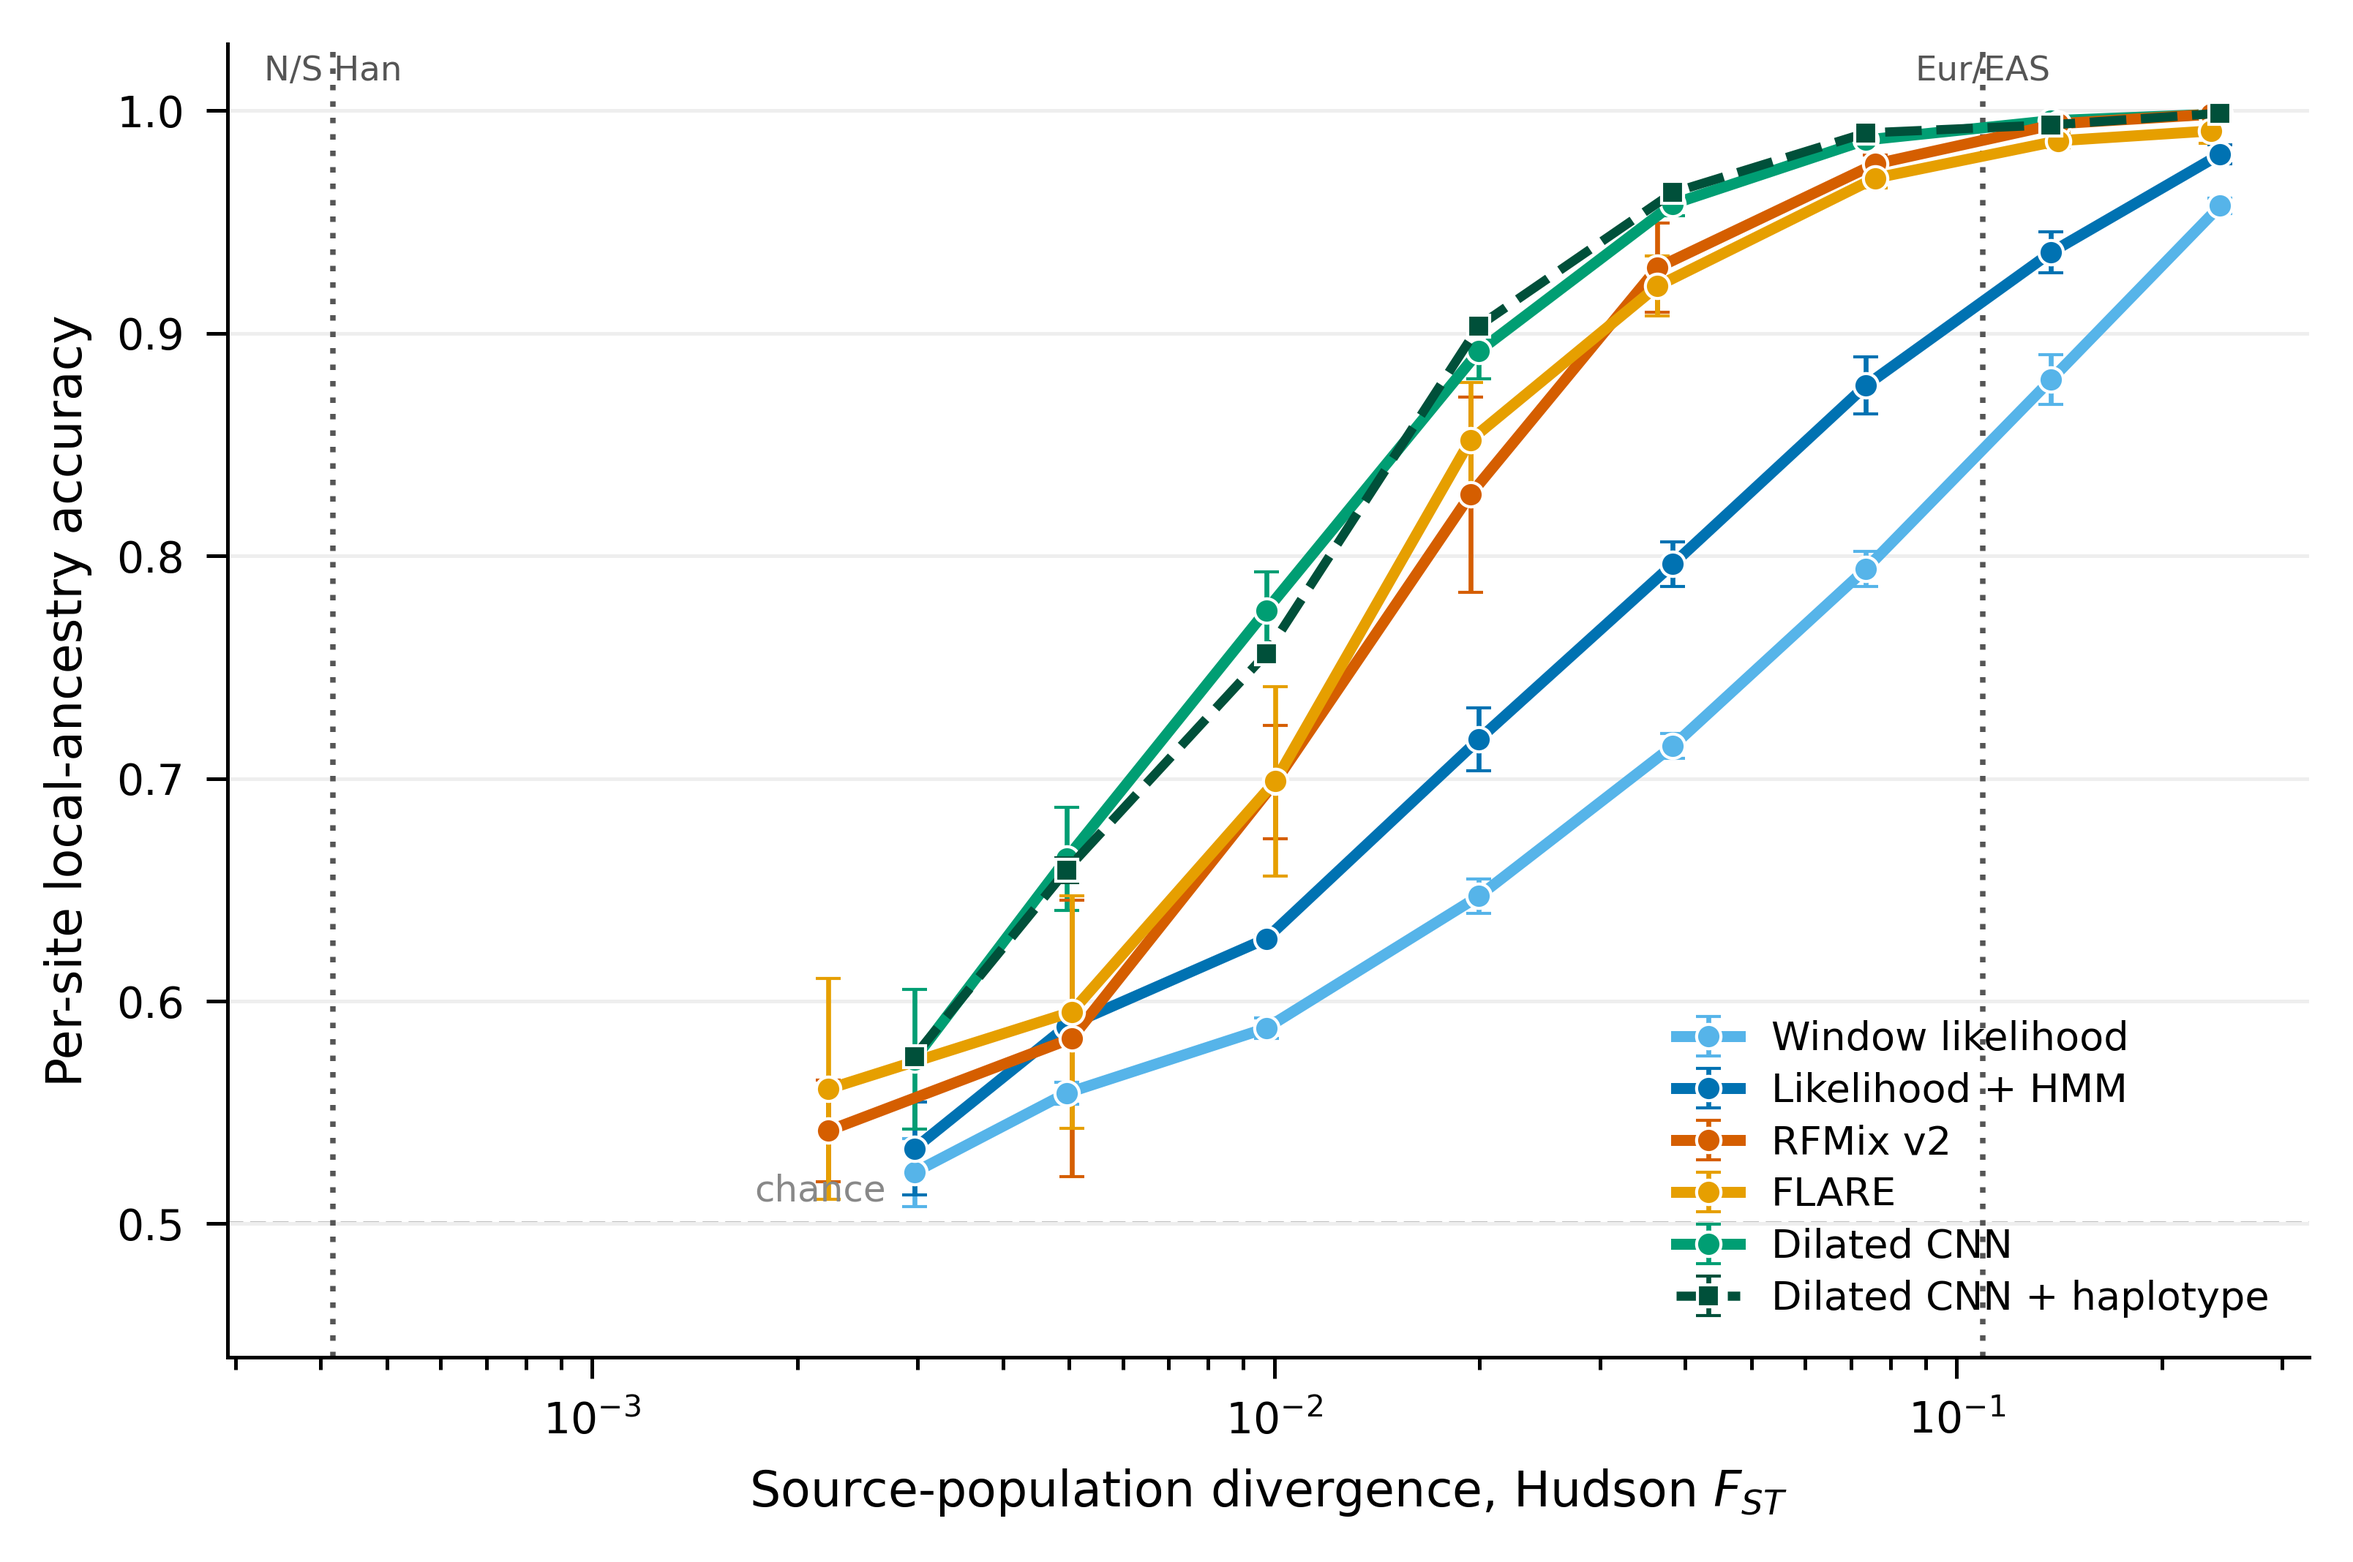
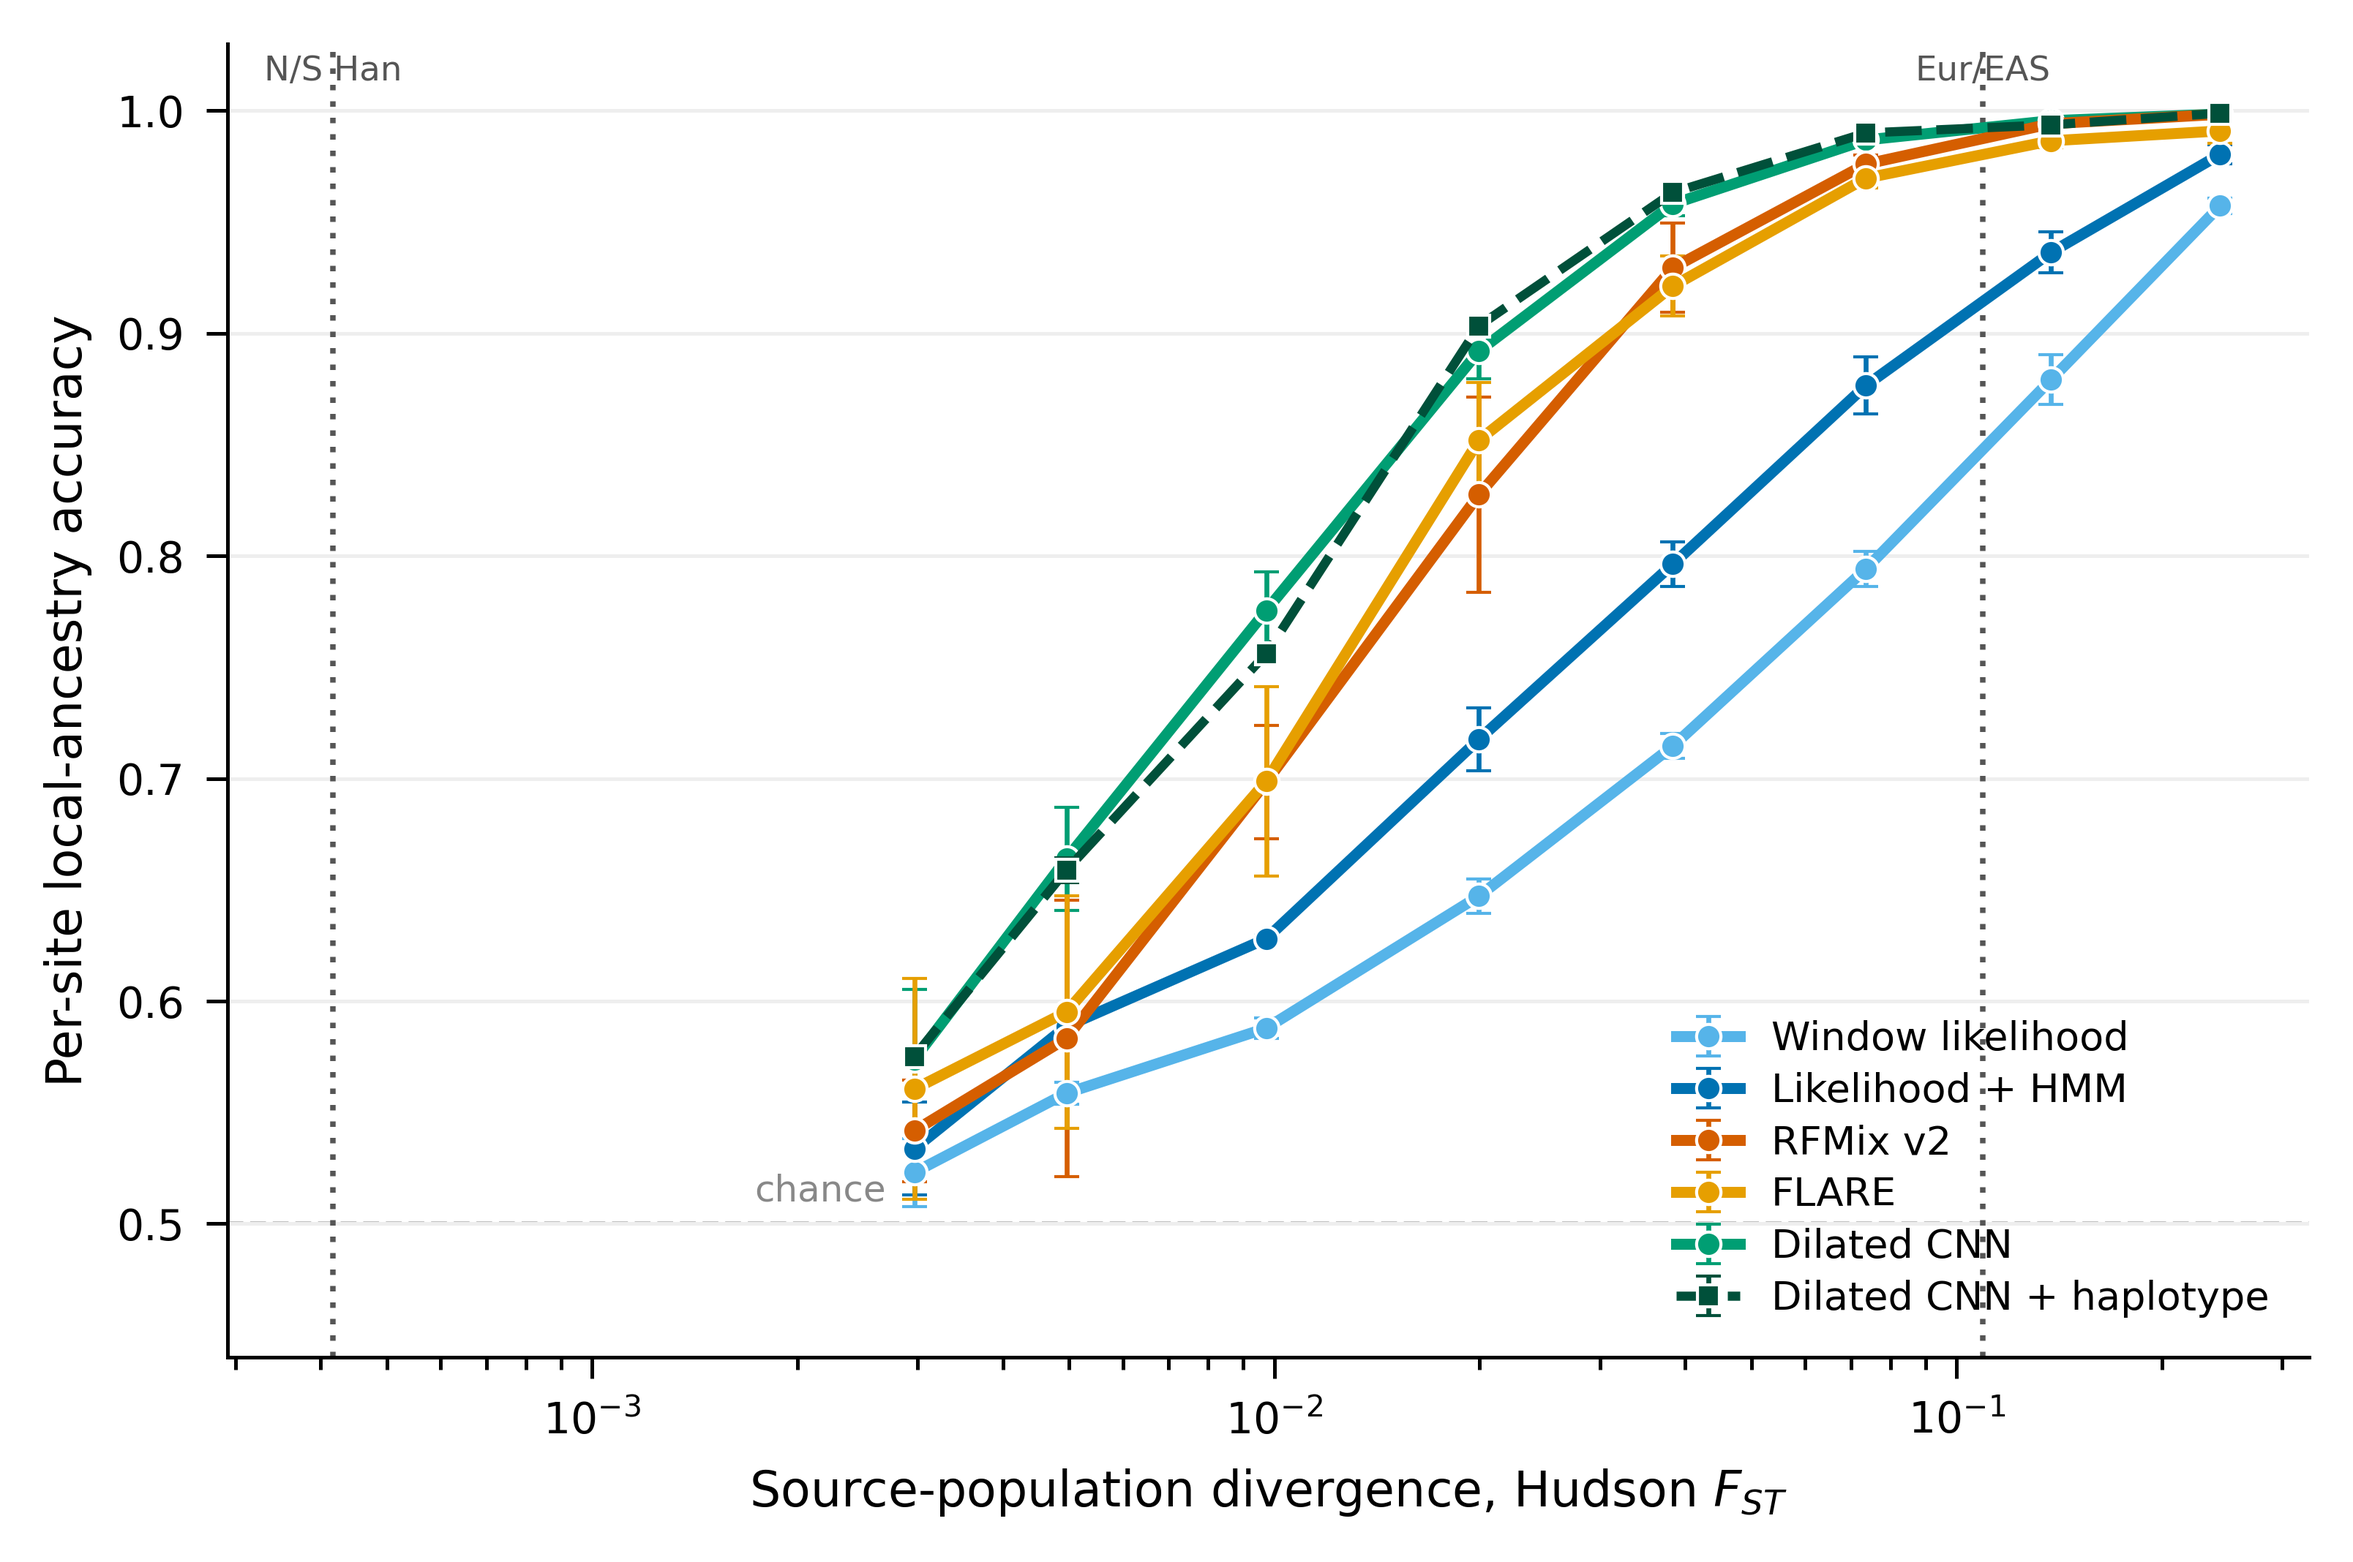
Place released tools at the main sweep's F_ST in the accuracy figure
RFMix and FLARE come from a separate run over the same split times, so their
per-replicate F_ST estimate differs from the main sweep's, by a third at the
lowest level. Drawing each series at its own estimate put the released tools at
different x from the methods they are compared against, which is not a
difference in the data they saw.

Both series now take the main sweep's F_ST for the shared split time, matching
how the haplotype-aware curve is already placed. Accuracies are untouched.

diff --git a/make_figures.py b/make_figures.py
@@ -277,11 +277,22 @@ def fig1():
         ax.text(xv, 1.025, txt, fontsize=5.6, color="#555555",
                 ha="center", va="top")
 
+    # RFMix and FLARE come from a separate run over the same split times, so
+    # their measured F_ST differs from the main sweep's by replicate, by a third
+    # at the lowest level (0.0022 against 0.0030). Drawing each series at its own
+    # estimate put the released tools at different x from the methods they are
+    # compared against, which is not a difference in the data they saw and which
+    # reviewers read as an inconsistency. Every series is now placed at the main
+    # sweep's F_ST for the shared split time, the same treatment the
+    # haplotype-aware curve below already receives, so a column of points is one
+    # scenario rather than one replicate draw of it.
+    anchor_by_T = {r["split_time"]: r["fst"] for r in agg}
+
     for key, rows in (("naive_bayes", agg), ("hmm", agg), ("cnn", agg),
                       ("rfmix", ext), ("flare", ext)):
         if not rows:
             continue
-        x = np.array([r["fst"] for r in rows])
+        x = np.array([anchor_by_T.get(r["split_time"], r["fst"]) for r in rows])
         y = np.array([r.get(key) if isinstance(r.get(key), float) else np.nan
                       for r in rows], dtype=float)
         e = np.array([r.get(f"{key}_sd", 0.0) or 0.0 for r in rows], dtype=float)
